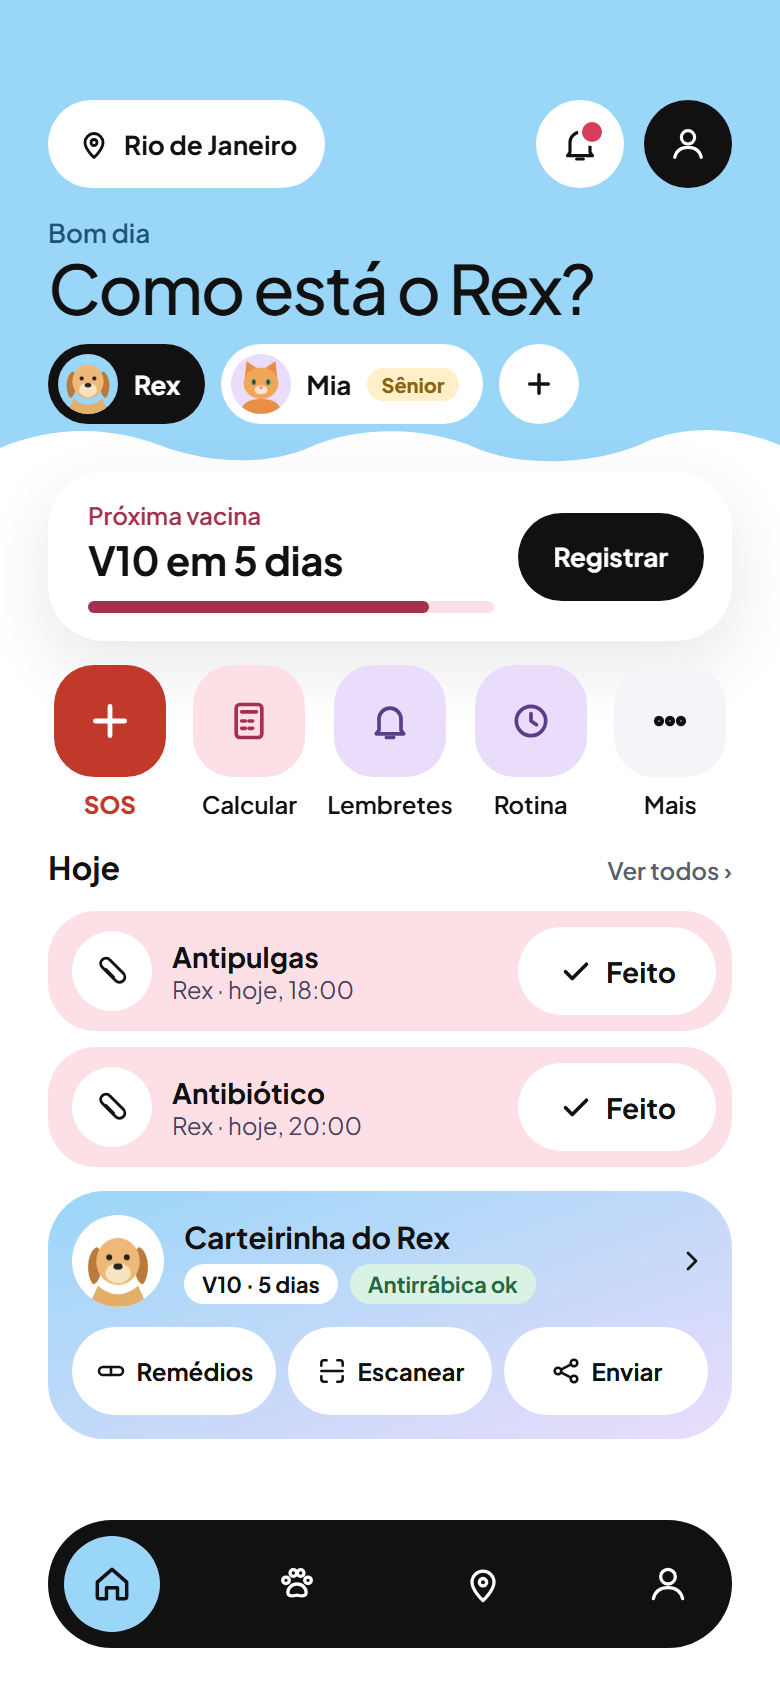
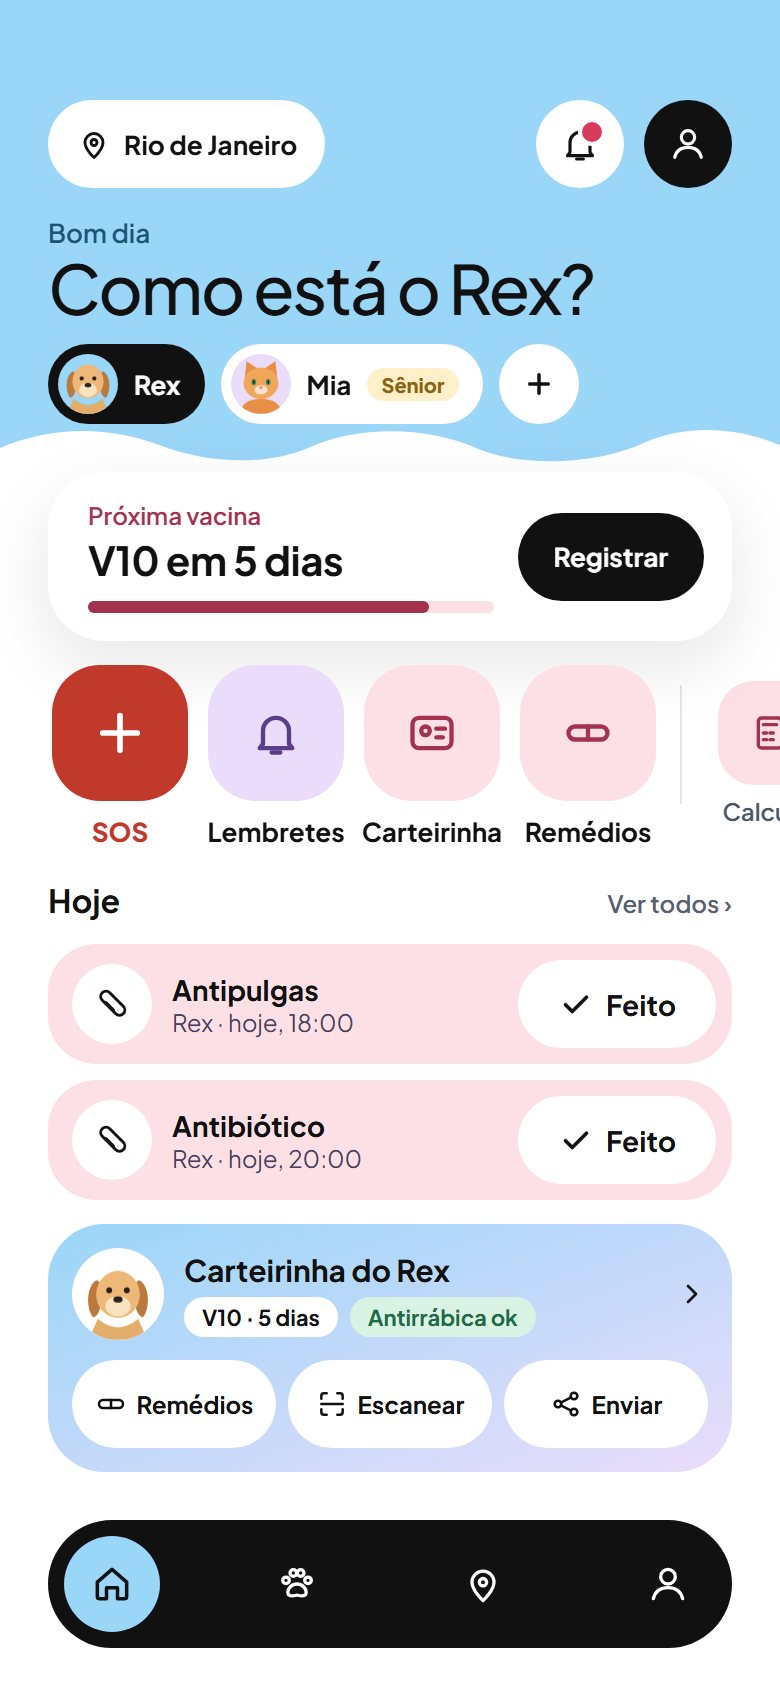
Protótipo: atalhos do Início com rolagem e principais em destaque
SOS, Lembretes, Carteirinha e Remédios em tamanho maior no começo; Calcular,
Rotina, Passeios, Eventos, Pet friendly, Adoção, Despesas e Mais menores,
depois de um divisor, com rolagem lateral.

Changed region(s): [[0.0615, 0.3697, 0.9538, 0.8934], [0.9231, 0.4005, 1.0, 0.4929], [0.8308, 0.4005, 0.8615, 0.4313]]

diff --git a/prototipo/Inicio.dc.html b/prototipo/Inicio.dc.html
@@ -63,12 +63,20 @@ nav a:hover{transform:translateY(-3px)}
       </div>
     </a>
 
-    <div role="list" aria-label="Atalhos" style="display:grid;grid-template-columns:repeat(5,1fr);gap:8px">
-      <a href="SOS.dc.html" role="listitem" class="rise tap" style="display:flex;flex-direction:column;align-items:center;gap:6px;font-size:12px;font-weight:600;color:#111;text-align:center;color:#C0392B;font-weight:800"><span style="width:56px;height:56px;border-radius:20px;background:#C0392B;display:flex;align-items:center;justify-content:center"><svg width="22" height="22" viewBox="0 0 24 24" fill="none" stroke="#fff" stroke-width="2.6" stroke-linecap="round" stroke-linejoin="round" aria-hidden="true"><path d="M12 4v16M4 12h16"/></svg></span>SOS</a>
-      <a href="Calculadoras.dc.html" role="listitem" class="rise tap" style="display:flex;flex-direction:column;align-items:center;gap:6px;font-size:12px;font-weight:600;color:#111;text-align:center;"><span style="width:56px;height:56px;border-radius:20px;background:#FDE0E6;display:flex;align-items:center;justify-content:center"><svg width="22" height="22" viewBox="0 0 24 24" fill="none" stroke="#A3324F" stroke-width="2" stroke-linecap="round" stroke-linejoin="round" aria-hidden="true"><rect x="5" y="3" width="14" height="18" rx="2"/><path d="M8 7h8M8 12h2M12 12h2M8 16h2M12 16h2"/></svg></span>Calcular</a>
-      <a href="Lembretes.dc.html" role="listitem" class="rise tap" style="display:flex;flex-direction:column;align-items:center;gap:6px;font-size:12px;font-weight:600;color:#111;text-align:center;"><span style="width:56px;height:56px;border-radius:20px;background:#EADCFB;display:flex;align-items:center;justify-content:center"><svg width="22" height="22" viewBox="0 0 24 24" fill="none" stroke="#5B3E8A" stroke-width="2" stroke-linecap="round" stroke-linejoin="round" aria-hidden="true"><path d="M6 17V11a6 6 0 0 1 12 0v6l1.5 2h-15z"/><path d="M10 21h4"/></svg></span>Lembretes</a>
-      <a href="Rotina.dc.html" role="listitem" class="rise tap" style="display:flex;flex-direction:column;align-items:center;gap:6px;font-size:12px;font-weight:600;color:#111;text-align:center;"><span style="width:56px;height:56px;border-radius:20px;background:#EADCFB;display:flex;align-items:center;justify-content:center"><svg width="22" height="22" viewBox="0 0 24 24" fill="none" stroke="#5B3E8A" stroke-width="2" stroke-linecap="round" stroke-linejoin="round" aria-hidden="true"><circle cx="12" cy="12" r="8"/><path d="M12 8v4l3 2"/></svg></span>Rotina</a>
-      <a href="TodosAtalhos.dc.html" role="listitem" class="rise tap" style="display:flex;flex-direction:column;align-items:center;gap:6px;font-size:12px;font-weight:600;color:#111;text-align:center;"><span style="width:56px;height:56px;border-radius:20px;background:#F3F5F8;display:flex;align-items:center;justify-content:center"><svg width="22" height="22" viewBox="0 0 24 24" fill="none" stroke="#111" stroke-width="2.4" stroke-linecap="round" stroke-linejoin="round" aria-hidden="true"><circle cx="6" cy="12" r="1.6"/><circle cx="12" cy="12" r="1.6"/><circle cx="18" cy="12" r="1.6"/></svg></span>Mais</a>
+    <div class="scrollx" role="list" aria-label="Atalhos" style="display:flex;align-items:flex-start;gap:6px;overflow-x:auto;margin:0 -24px;padding:0 24px 2px;scroll-padding:0 24px;scroll-snap-type:x proximity;scrollbar-width:none">
+      <a href="SOS.dc.html" role="listitem" class="rise tap" style="flex:none;width:72px;scroll-snap-align:start;display:flex;flex-direction:column;align-items:center;gap:7px;font-size:13px;color:#111;text-align:center;color:#C0392B;font-weight:800"><span style="width:68px;height:68px;border-radius:24px;background:#C0392B;display:flex;align-items:center;justify-content:center"><svg width="26" height="26" viewBox="0 0 24 24" fill="none" stroke="#fff" stroke-width="2.6" stroke-linecap="round" stroke-linejoin="round" aria-hidden="true"><path d="M12 4v16M4 12h16"/></svg></span>SOS</a>
+      <a href="Lembretes.dc.html" role="listitem" class="rise tap" style="flex:none;width:72px;scroll-snap-align:start;display:flex;flex-direction:column;align-items:center;gap:7px;font-size:13px;color:#111;text-align:center;font-weight:700"><span style="width:68px;height:68px;border-radius:24px;background:#EADCFB;display:flex;align-items:center;justify-content:center"><svg width="26" height="26" viewBox="0 0 24 24" fill="none" stroke="#5B3E8A" stroke-width="2" stroke-linecap="round" stroke-linejoin="round" aria-hidden="true"><path d="M6 17V11a6 6 0 0 1 12 0v6l1.5 2h-15z"/><path d="M10 21h4"/></svg></span>Lembretes</a>
+      <a href="Carteirinha.dc.html" role="listitem" class="rise tap" style="flex:none;width:72px;scroll-snap-align:start;display:flex;flex-direction:column;align-items:center;gap:7px;font-size:13px;color:#111;text-align:center;font-weight:700"><span style="width:68px;height:68px;border-radius:24px;background:#FDE0E6;display:flex;align-items:center;justify-content:center"><svg width="26" height="26" viewBox="0 0 24 24" fill="none" stroke="#A3324F" stroke-width="2" stroke-linecap="round" stroke-linejoin="round" aria-hidden="true"><rect x="3" y="5" width="18" height="14" rx="3"/><circle cx="9" cy="11" r="2"/><path d="M14 10h4M14 14h3"/></svg></span>Carteirinha</a>
+      <a href="Medicamentos.dc.html" role="listitem" class="rise tap" style="flex:none;width:72px;scroll-snap-align:start;display:flex;flex-direction:column;align-items:center;gap:7px;font-size:13px;color:#111;text-align:center;font-weight:700"><span style="width:68px;height:68px;border-radius:24px;background:#FDE0E6;display:flex;align-items:center;justify-content:center"><svg width="26" height="26" viewBox="0 0 24 24" fill="none" stroke="#A3324F" stroke-width="2" stroke-linecap="round" stroke-linejoin="round" aria-hidden="true"><rect x="3" y="9" width="18" height="6" rx="3"/><path d="M12 9v6"/></svg></span>Remédios</a>
+      <span aria-hidden="true" style="flex:none;width:1px;align-self:stretch;margin:10px 4px 22px;background:#E1E6EE"></span>
+      <a href="Calculadoras.dc.html" role="listitem" class="tap" style="flex:none;width:68px;scroll-snap-align:start;display:flex;flex-direction:column;align-items:center;gap:6px;margin-top:8px;font-size:12px;font-weight:600;color:#4A5568;text-align:center;line-height:1.2;white-space:nowrap"><span style="width:52px;height:52px;border-radius:18px;background:#FDE0E6;display:flex;align-items:center;justify-content:center"><svg width="20" height="20" viewBox="0 0 24 24" fill="none" stroke="#A3324F" stroke-width="2" stroke-linecap="round" stroke-linejoin="round" aria-hidden="true"><rect x="5" y="3" width="14" height="18" rx="2"/><path d="M8 7h8M8 12h2M12 12h2M8 16h2M12 16h2"/></svg></span>Calcular</a>
+      <a href="Rotina.dc.html" role="listitem" class="tap" style="flex:none;width:68px;scroll-snap-align:start;display:flex;flex-direction:column;align-items:center;gap:6px;margin-top:8px;font-size:12px;font-weight:600;color:#4A5568;text-align:center;line-height:1.2;white-space:nowrap"><span style="width:52px;height:52px;border-radius:18px;background:#EADCFB;display:flex;align-items:center;justify-content:center"><svg width="20" height="20" viewBox="0 0 24 24" fill="none" stroke="#5B3E8A" stroke-width="2" stroke-linecap="round" stroke-linejoin="round" aria-hidden="true"><circle cx="12" cy="12" r="8"/><path d="M12 8v4l3 2"/></svg></span>Rotina</a>
+      <a href="PasseioGps.dc.html" role="listitem" class="tap" style="flex:none;width:68px;scroll-snap-align:start;display:flex;flex-direction:column;align-items:center;gap:6px;margin-top:8px;font-size:12px;font-weight:600;color:#4A5568;text-align:center;line-height:1.2;white-space:nowrap"><span style="width:52px;height:52px;border-radius:18px;background:#EADCFB;display:flex;align-items:center;justify-content:center"><svg width="20" height="20" viewBox="0 0 24 24" fill="none" stroke="#5B3E8A" stroke-width="2" stroke-linecap="round" stroke-linejoin="round" aria-hidden="true"><path d="M4 20c4 0 4-6 8-6s4-6 8-6"/><circle cx="4" cy="20" r="1.5"/><circle cx="20" cy="8" r="1.5"/></svg></span>Passeios</a>
+      <a href="EventosMapa.dc.html" role="listitem" class="tap" style="flex:none;width:68px;scroll-snap-align:start;display:flex;flex-direction:column;align-items:center;gap:6px;margin-top:8px;font-size:12px;font-weight:600;color:#4A5568;text-align:center;line-height:1.2;white-space:nowrap"><span style="width:52px;height:52px;border-radius:18px;background:#EADCFB;display:flex;align-items:center;justify-content:center"><svg width="20" height="20" viewBox="0 0 24 24" fill="none" stroke="#5B3E8A" stroke-width="2" stroke-linecap="round" stroke-linejoin="round" aria-hidden="true"><rect x="4" y="5" width="16" height="15" rx="3"/><path d="M4 10h16M9 3v4M15 3v4"/></svg></span>Eventos</a>
+      <a href="PetFriendly.dc.html" role="listitem" class="tap" style="flex:none;width:68px;scroll-snap-align:start;display:flex;flex-direction:column;align-items:center;gap:6px;margin-top:8px;font-size:12px;font-weight:600;color:#4A5568;text-align:center;line-height:1.2;white-space:nowrap"><span style="width:52px;height:52px;border-radius:18px;background:#E0F1FA;display:flex;align-items:center;justify-content:center"><svg width="20" height="20" viewBox="0 0 24 24" fill="none" stroke="#1A5577" stroke-width="2" stroke-linecap="round" stroke-linejoin="round" aria-hidden="true"><circle cx="6" cy="10" r="1.8"/><circle cx="10" cy="6" r="1.8"/><circle cx="14" cy="6" r="1.8"/><circle cx="18" cy="10" r="1.8"/><path d="M12 12c-3 0-5 2.5-5 4.5 0 1.5 1.2 2 2.6 2 1 0 1.6-.4 2.4-.4s1.4.4 2.4.4c1.4 0 2.6-.5 2.6-2 0-2-2-4.5-5-4.5z"/></svg></span>Pet friendly</a>
+      <a href="Adocao.dc.html" role="listitem" class="tap" style="flex:none;width:68px;scroll-snap-align:start;display:flex;flex-direction:column;align-items:center;gap:6px;margin-top:8px;font-size:12px;font-weight:600;color:#4A5568;text-align:center;line-height:1.2;white-space:nowrap"><span style="width:52px;height:52px;border-radius:18px;background:#E0F1FA;display:flex;align-items:center;justify-content:center"><svg width="20" height="20" viewBox="0 0 24 24" fill="none" stroke="#1A5577" stroke-width="2" stroke-linecap="round" stroke-linejoin="round" aria-hidden="true"><path d="M12 20s-7-4.5-7-10a4 4 0 0 1 7-2.5A4 4 0 0 1 19 10c0 5.5-7 10-7 10z"/></svg></span>Adoção</a>
+      <a href="Despesas.dc.html" role="listitem" class="tap" style="flex:none;width:68px;scroll-snap-align:start;display:flex;flex-direction:column;align-items:center;gap:6px;margin-top:8px;font-size:12px;font-weight:600;color:#4A5568;text-align:center;line-height:1.2;white-space:nowrap"><span style="width:52px;height:52px;border-radius:18px;background:#E0F1FA;display:flex;align-items:center;justify-content:center"><svg width="20" height="20" viewBox="0 0 24 24" fill="none" stroke="#1A5577" stroke-width="2" stroke-linecap="round" stroke-linejoin="round" aria-hidden="true"><rect x="3" y="6" width="18" height="13" rx="3"/><path d="M3 10h18M16 15h2"/></svg></span>Despesas</a>
+      <a href="TodosAtalhos.dc.html" role="listitem" class="tap" style="flex:none;width:68px;scroll-snap-align:start;display:flex;flex-direction:column;align-items:center;gap:6px;margin-top:8px;font-size:12px;font-weight:600;color:#4A5568;text-align:center;line-height:1.2;white-space:nowrap"><span style="width:52px;height:52px;border-radius:18px;background:#F3F5F8;display:flex;align-items:center;justify-content:center"><svg width="20" height="20" viewBox="0 0 24 24" fill="none" stroke="#111" stroke-width="2.2" stroke-linecap="round" stroke-linejoin="round" aria-hidden="true"><circle cx="6" cy="12" r="1.6"/><circle cx="12" cy="12" r="1.6"/><circle cx="18" cy="12" r="1.6"/></svg></span>Mais</a>
     </div>
 
     <div style="display:flex;justify-content:space-between;align-items:baseline;margin-top:2px"><span style="font-weight:700;font-size:16px">Hoje</span><a href="Lembretes.dc.html" style="font-size:12px;font-weight:600;color:#566070">Ver todos ›</a></div>
